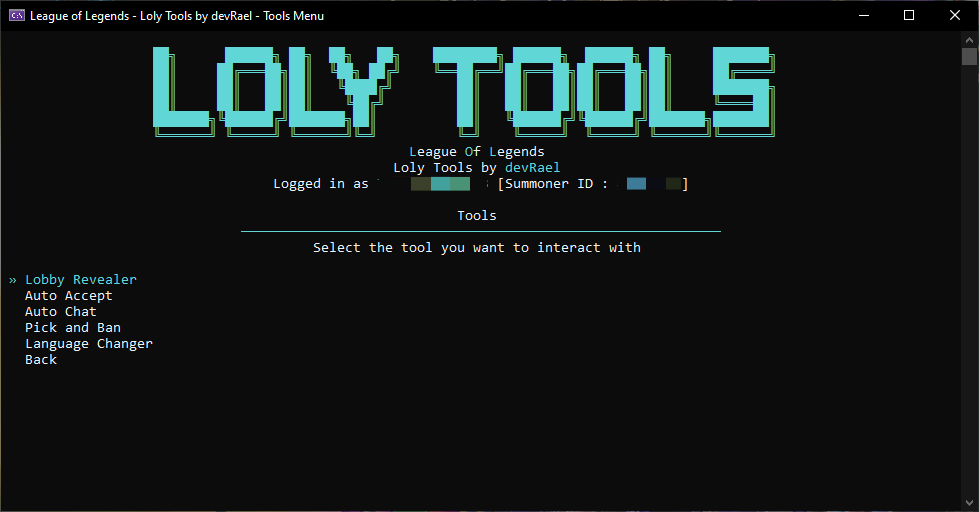
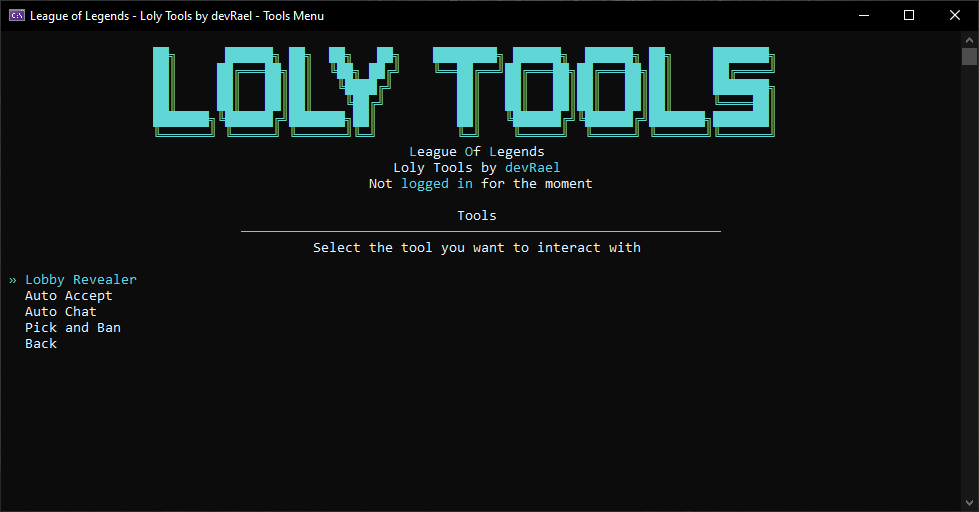
Delete `LangageChanger` tool (useless) Patch issue with `Auto Accept Once` setting Patch issue with `SummonerId` Update README Version 2.1.0

Changed region(s): [[0.2758, 0.3438, 0.7048, 0.375], [0.0, 0.6562, 0.1532, 0.7188]]

diff --git a/src/Tasks/Scheduled/LeagueClientTask.cs b/src/Tasks/Scheduled/LeagueClientTask.cs
@@ -112,16 +112,17 @@ namespace Loly.src.Tasks.Scheduled
             }
 
             Logger.Info(LogModule.Loly, "Getting your Summoner ID");
-            string[] currentSummoner = Requests.WaitSuccessClientRequest("GET", "lol-summoner/v1/current-summoner", true);
-            dynamic currentSummonerSplit = JsonConvert.DeserializeObject(currentSummoner[1]);
 
-            Global.SummonerLogged.SummonerId = currentSummonerSplit["summonerId"];
-            Global.SummonerLogged.DisplayName = currentSummonerSplit["displayName"];
-            Global.SummonerLogged.GameName = currentSummonerSplit["gameName"];
-            Global.SummonerLogged.TagLine = currentSummonerSplit["tagLine"];
-            Global.SummonerLogged.SummonerLevel = currentSummonerSplit["summonerLevel"];
-            Global.SummonerLogged.AccountId = currentSummonerSplit["accountId"];
-            Global.SummonerLogged.Puuid = currentSummonerSplit["puuid"];
+            string[] currentSummoner = Requests.WaitSuccessClientRequest("GET", "lol-summoner/v1/current-summoner", true);
+            CurrentSummoner currentSum = JsonConvert.DeserializeObject<CurrentSummoner>(currentSummoner[1]);
+
+            Global.SummonerLogged.SummonerId = currentSum.SummonerId;
+            Global.SummonerLogged.DisplayName = currentSum.DisplayName;
+            Global.SummonerLogged.GameName = currentSum.GameName;
+            Global.SummonerLogged.TagLine = currentSum.TagLine;
+            Global.SummonerLogged.SummonerLevel = currentSum.SummonerLevel;
+            Global.SummonerLogged.AccountId = currentSum.AccountId;
+            Global.SummonerLogged.Puuid = currentSum.Puuid;
 
             Logger.Info(LogModule.Loly, $"Summoner ID loaded : {Global.SummonerLogged.SummonerId}");
         }

diff --git a/src/Menus/ToolsMenu.cs b/src/Menus/ToolsMenu.cs
@@ -5,7 +5,6 @@ using Loly.src.Variables.Class;
 using static Loly.src.Menus.AutoAcceptMenu;
 using static Loly.src.Menus.AutoChatMenu;
 using static Loly.src.Menus.Core.Interface;
-using static Loly.src.Menus.LanguageChangerMenu;
 using static Loly.src.Menus.LobbyRevealerMenu;
 using static Loly.src.Menus.MainMenu;
 using static Loly.src.Menus.PicknBanMenu;
@@ -23,7 +22,7 @@ public class ToolsMenu
 
             int choice = 7;
             UpdateMenuTitle("tools");
-            string[] choices = { "Lobby Revealer", "Auto Accept", "Auto Chat", "Pick and Ban", "Language Changer", "Back" };
+            string[] choices = { "Lobby Revealer", "Auto Accept", "Auto Chat", "Pick and Ban", "Back" };
 
             MenuBuilder toolsMenu = MenuBuilder.BuildMenu(choices, Console.CursorTop + 1);
             while (choice == 7)
@@ -94,10 +93,6 @@ public class ToolsMenu
                     {
                         GetPicknBanMenu();
                     }
-
-                    break;
-                case 5:
-                    GetLanguageChangerMenu();
                     break;
             }
         }

diff --git a/Version.cs b/Version.cs
@@ -5,13 +5,13 @@ namespace Loly
 {
     public static class Version
     {
-        public static bool IsDevelopment => ReleaseType is DevelopmentStage.Development;
+        public static bool IsDevelopment => ReleaseType is DevelopmentStage.Release;
         public static DevelopmentStage ReleaseType => Global.IsProdEnvironment ? DevelopmentStage.Release : DevelopmentStage.Development;
         public static string FullVersion => $"{Major}.{Minor}.{Hotfix}-{ReleaseType}";
         public static string FullVersionNoStage => $"{Major}.{Minor}.{Hotfix}";
 
         private static int Major => 2;
-        private static int Minor => 0;
+        private static int Minor => 1;
         private static int Hotfix => 0;
     }
 }

diff --git a/src/Menus/AutoAcceptMenu.cs b/src/Menus/AutoAcceptMenu.cs
@@ -36,7 +36,7 @@ public class AutoAcceptMenu
             }
 
             JObject settings = Settings.GetSettings();
-            settings[variables[choice - 1]] = !bool.Parse(settings[variables[choice - 1]]?.ToString() ?? string.Empty);
+            settings["AutoAccept"][variables[choice - 1]] = !bool.Parse(settings["AutoAccept"][variables[choice - 1]].ToString());
             Settings.SaveFileSettings(settings);
             Settings.CreateOrUpdateSettings();
         }

diff --git a/src/Tools/ChampSelectSession.cs b/src/Tools/ChampSelectSession.cs
@@ -54,7 +54,7 @@ namespace Loly.src.Tools
                 List<MemberTeam> myTeam = champSelectResponse.MyTeam;
                 foreach (MemberTeam member in myTeam)
                 {
-                    if (member.SummonerId.ToString() != Global.SummonerLogged.SummonerId)
+                    if (!member.SummonerId.Equals(Global.SummonerLogged.SummonerId))
                     {
                         continue;
                     }

diff --git a/src/Tasks/Scheduled/AnalyzeSessionTask.cs b/src/Tasks/Scheduled/AnalyzeSessionTask.cs
@@ -99,8 +99,6 @@ namespace Loly.src.Tasks.Scheduled
         private static void HandleChampSelectPhase()
         {
             // TODO: Create the detection of dodge champ select system
-            // ...
-
             Global.AcceptedCurrentMatch = false;
 
             if (Settings.AutoAcceptOnce)

diff --git a/src/Variables/Class/ChampSelect.cs b/src/Variables/Class/ChampSelect.cs
@@ -17,7 +17,7 @@
     public class MemberTeam
     {
         public string AssignedPosition { get; set; }
-        public int? SummonerId { get; set; }
+        public string SummonerId { get; set; }
     }
 
     public class Action

diff --git a/README.md b/README.md
@@ -21,7 +21,6 @@ No need to install this if you have a more recent version installed.
 - [x] Auto Chat (Auto send messages when champ select start)
 - [x] Get OP.GG stats of your team (SoloQ & DuoQ / FlexQ)
 - [x] Advanced Logs system (Real Time & Persistent)
-- [x] Language Changer (Shortcuts on Desktop)
 - [x] Use JSON file to save your settings
 - [x] Very low CPU and RAM usage
 - [x] Auto update (Github API)
